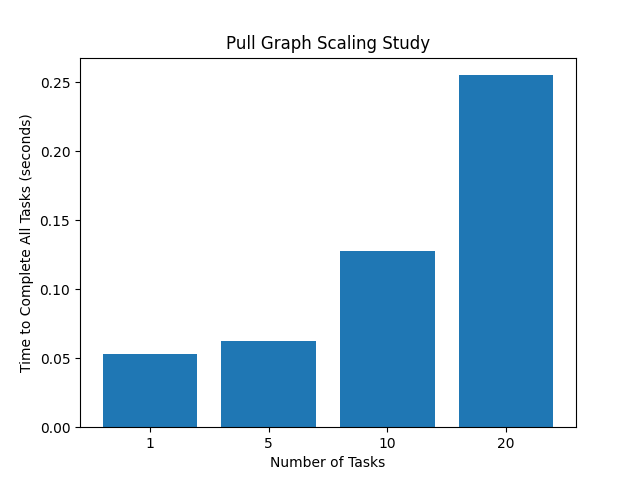
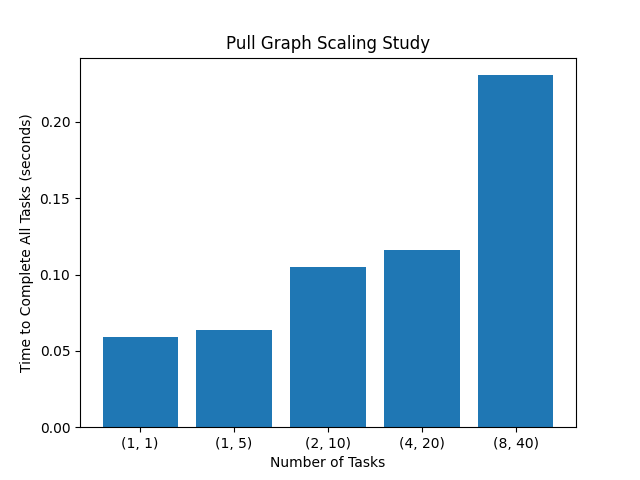
perf graphs

diff --git a/perf/perf_graph.py b/perf/perf_graph.py
@@ -22,14 +22,15 @@ def push_graph():
 
 def pull_graph():
     pull_data = [
-        [ 1, 0.05316281318664551],
-        [ 5, 0.0624079704284668],
-        [10, 0.12756609916687012],
-        [20, 0.25497007369995117],
-        [40, 0.4865279197692871],
+        [1, 1, 0.058979034423828125],
+        [1, 5, 0.06356978416442871],
+        [2, 10, 0.10510826110839844],
+        [4, 20, 0.11581587791442871],
+        [8, 40, 0.23066186904907227],
     ]
-    tasks = [str(el[0]) for el in pull_data]
-    times = [el[1] for el in pull_data]
+    tasks = [str((el[0], el[1],)) for el in pull_data]
+    times = [el[2] for el in pull_data]
+    
     plt.bar(tasks, times)
     plt.title("Pull Graph Scaling Study")
     plt.xlabel("Number of Tasks")
